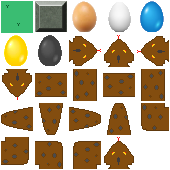
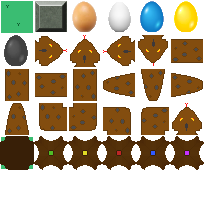
added holes, fixed layout of intro screen when returning from game.

diff --git a/src/scene_game.js b/src/scene_game.js
@@ -3,7 +3,7 @@ import Level from './level.js'
 import Snake from './snake.js'
 import { randomize, colorMix, switchToScene, isMobile } from './util.js'
 import { mkText, textWon, textGameOver } from './text.js'
-import { TILE_WIDTH, TILE_HEIGHT, HEADER_ROWS, EGG_BLACK_ID, LIFE_ID, EGG_BLUE_ID, EGG_BROWN_ID, EGG_WHITE_ID, EGG_GOLD_ID, EMPTY_ID } from './constants.js'
+import { TILE_WIDTH, TILE_HEIGHT, HEADER_ROWS, EGG_BLACK_ID, LIFE_ID, EGG_BLUE_ID, EGG_BROWN_ID, EGG_WHITE_ID, EGG_GOLD_ID, EMPTY_ID, HOLE_FOREGROUND_START, HOLE_BACKGROUND } from './constants.js'
 
 import Keypad from './keypad.js'
 
@@ -124,6 +124,7 @@ export default class Game extends Phaser.Scene {
     this.lv = Level.getLevel(this.level, this.lo)
     this.bgLayer.putTilesAt(this.lv.background, 0, 0, true)
     this.mazeLayer.putTilesAt(this.lv.tile_map, 0, 0, true)
+    this.fgLayer.fill(EMPTY_ID, 0, 0, this.lo.mazeCols, this.lo.mazeRows)
     this.levelTxt.setText('Level: ' + (this.level + 1))
     this.snake = new Snake(this)
     // update lives
@@ -137,6 +138,7 @@ export default class Game extends Phaser.Scene {
     this.music = this.sound.add('music')
     this.music.play({ loop: true })
     this.initEggs()
+    this.addHoles(this.lv.holes)
     this.energy = 1.0
     this.updateEnergyBar()
     const txt = []
@@ -163,8 +165,8 @@ export default class Game extends Phaser.Scene {
   }
 
   /**
-     * initializes eggs
-     */
+   * initializes eggs
+   */
   initEggs () {
     this.eggsToAdd = []
     if ('dyn_delay' in this.lv) {
@@ -238,7 +240,8 @@ export default class Game extends Phaser.Scene {
     })
     const tileset = this.map.addTilesetImage('tiles', null, TILE_WIDTH, TILE_HEIGHT, 1, 2)
     this.bgLayer = this.map.createBlankLayer('background', tileset, this.lo.mazeX, this.lo.mazeY)
-    this.mazeLayer = this.map.createBlankLayer('foreground', tileset, this.lo.mazeX, this.lo.mazeY)
+    this.mazeLayer = this.map.createBlankLayer('maze', tileset, this.lo.mazeX, this.lo.mazeY)
+    this.fgLayer = this.map.createBlankLayer('foreground', tileset, this.lo.mazeX, this.lo.mazeY)
     this._setupLevel()
     if (DEBUG_FPS) {
       this.fps = mkText(this, 0, this.lo.height, '0', { fontSize: 50 })
@@ -345,30 +348,46 @@ export default class Game extends Phaser.Scene {
   }
 
   /**
-     * @param { number } r
-     * @param { number } c
-     * @return { number }
-     */
+   * @param { number } type
+   * @param { number } r
+   * @param { number } c
+   */
+  putTileAt (type, x, y) {
+    return this.map.putTileAt(type, x, y, true, this.mazeLayer)
+  }
+
+  /**
+   * @param { number } type
+   * @param { number } r
+   * @param { number } c
+   */
+  putBackgroundTileAt (type, x, y) {
+    return this.map.putTileAt(type, x, y, true, this.bgLayer)
+  }
+
+  putForegroundTileAt (type, x, y) {
+    return this.map.putTileAt(type, x, y, true, this.fgLayer)
+  }
+
+  /**
+   * @param { number } r
+   * @param { number } c
+   * @return { number }
+   */
   getTileAt (x, y) {
-    return this.map.getTileAt(x, y).index
+    return this.map.getTileAt(x, y, true, this.mazeLayer).index
+  }
+
+  getBackgroundTileAt (x, y) {
+    return this.map.getTileAt(x, y, true, this.bgLayer).index
   }
 
   /**
-     *
-     * @param { number } idx
-     * @param { number } r
-     * @param { number } c
-     */
-  putTileAt (idx, x, y) {
-    this.map.putTileAt(idx, x, y)
-  }
-
-  /**
-     * Add a number of eggs of a given type to the screen,
-     * avoiding collision with walls, snake or other eggs.
-     * @param { number } number number of eggs to add
-     * @param { number } type the tile type of the eggs
-     */
+    * Add a number of eggs of a given type to the screen,
+    * avoiding collision with walls, snake or other eggs.
+    * @param { number } number number of eggs to add
+    * @param { number } type the tile type of the eggs
+    */
   addEggs (cnt, type) {
     for (let i = 0; i < cnt; i++) {
       let r
@@ -379,6 +398,42 @@ export default class Game extends Phaser.Scene {
       } while (this.getTileAt(c, r) !== EMPTY_ID)
       this.putTileAt(type, c, r)
     }
+  }
+
+  /**
+    * Add holes avoiding collision with other objects
+    * @param { number } number number of holes to add
+    */
+  addHoles (cnt) {
+    if (!cnt) {
+      return
+    }
+    this.holes = []
+    for (let i = 0; i < cnt; i += 2) {
+      let r0, c0, r1, c1
+      do {
+        r0 = 1 + Phaser.Math.Between(1, this.lo.hIsles - 2) * (this.lo.bushRows + 1)
+        c0 = 1 + Phaser.Math.Between(1, this.lo.vIsles - 2) * (this.lo.bushCols + 1)
+      } while (this.getTileAt(c0, r0) !== EMPTY_ID || this.getBackgroundTileAt(c0, r0) === HOLE_BACKGROUND)
+      const v0 = { r: r0, c: c0 }
+      this.holes.push(v0)
+      this.putBackgroundTileAt(HOLE_BACKGROUND, c0, r0)
+      this.putForegroundTileAt(HOLE_FOREGROUND_START + i, c0, r0)
+      do {
+        r1 = 1 + Phaser.Math.Between(1, this.lo.hIsles - 2) * (this.lo.bushRows + 1)
+        c1 = 1 + Phaser.Math.Between(1, this.lo.vIsles - 2) * (this.lo.bushCols + 1)
+      } while (this.getTileAt(c1, r1) !== EMPTY_ID || this.getBackgroundTileAt(c1, r1) === HOLE_BACKGROUND ||
+              (r0 === r1 && Math.abs(c1 - c0) === this.lo.bushCols + 1) || (c0 === c1 && Math.abs(r1 - r0) === this.lo.bushRows + 1))
+      const v1 = { r: r1, c: c1 }
+      this.holes.push(v1)
+      this.putBackgroundTileAt(HOLE_BACKGROUND, c1, r1)
+      this.putForegroundTileAt(HOLE_FOREGROUND_START + i, c1, r1)
+      v0.other = v1
+      v1.other = v0
+    }
+    const len = this.holes.length
+    this.holes[len - 2].other = this.holes[len - 1]
+    this.holes[len - 1].other = this.holes[len - 2]
   }
 
   resetEffect () {

diff --git a/src/snake.js b/src/snake.js
@@ -3,7 +3,7 @@ import {
   EMPTY_ID, WALL_ID, EGG_BROWN_ID, EGG_WHITE_ID, EGG_BLUE_ID, EGG_GOLD_ID, EGG_BLACK_ID,
   SNAKE_START_LEN,
   SNAKE_HEAD_R, SNAKE_HEAD_L, SNAKE_HEAD_U, SNAKE_HEAD_D, SNAKE_BODY_R, SNAKE_BODY_L, SNAKE_BODY_U, SNAKE_BODY_D, SNAKE_TAIL_R, SNAKE_TAIL_L, SNAKE_TAIL_U, SNAKE_TAIL_D, SNAKE_CORNER_UL, SNAKE_CORNER_UR, SNAKE_CORNER_BL, SNAKE_CORNER_BR,
-  EGG_BROWN_VALUE, EGG_WHITE_VALUE, EGG_BLUE_VALUE, EGG_GOLD_VALUE, EGG_BROWN_LEN_INC, EGG_WHITE_LEN_INC, EGG_BLUE_LEN_INC
+  EGG_BROWN_VALUE, EGG_WHITE_VALUE, EGG_BLUE_VALUE, EGG_GOLD_VALUE, EGG_BROWN_LEN_INC, EGG_WHITE_LEN_INC, EGG_BLUE_LEN_INC, HOLE_BACKGROUND
 } from './constants.js'
 
 const tailMap = new Map([
@@ -55,11 +55,11 @@ export default class Snake {
     this.game.putTileAt(SNAKE_TAIL_R, this.body[0][1], this.body[0][0])
     this.game.putTileAt(SNAKE_HEAD_R, this.body[this.body.length - 1][1], this.body[this.body.length - 1][0])
     this.nextDir = [0, 1]
+    this.lastHeadTile = SNAKE_HEAD_R
   }
 
   setDir (d) {
     if (d[0] === -this.dir[0] && d[1] === -this.dir[1]) {
-      console.log("can't go back")
       return
     }
     this.nextDir = d
@@ -83,7 +83,18 @@ export default class Snake {
     * @returns { Boolean } true unless the snake died.
     */
   update () {
-    const h = this.body[this.head]
+    let h = this.body[this.head]
+    if (this.game.getBackgroundTileAt(h[1], h[0]) === HOLE_BACKGROUND) {
+      const holes = this.game.holes
+      for (let i = 0; i < holes.length; i++) {
+        if (holes[i].r === h[0] && holes[i].c === h[1]) {
+          this.game.putTileAt(EMPTY_ID, h[1], h[0])
+          h = [holes[i].other.r, holes[i].other.c]
+          this.body[this.head] = h
+          break
+        }
+      }
+    }
     let tl = this.game.getTileAt(h[1] + this.nextDir[1], h[0] + this.nextDir[0])
     if (tl !== WALL_ID) {
       this.dir = this.nextDir
@@ -147,16 +158,15 @@ export default class Snake {
     }
 
     // replace head with body
-    const prevHead = this.body[this.head]
-    const prevHeadTl = this.game.getTileAt(prevHead[1], prevHead[0])
     this.head++
     if (this.head === this.body.length) {
       this.head = 0
     }
     this.body[this.head] = [h[0] + this.dir[0], h[1] + this.dir[1]]
-    const tls = headMap.get(this.dir[0] + '_' + this.dir[1] + '_' + prevHeadTl)
-    this.game.putTileAt(tls[1], prevHead[1], prevHead[0])
+    const tls = headMap.get(this.dir[0] + '_' + this.dir[1] + '_' + this.lastHeadTile)
+    this.game.putTileAt(tls[1], h[1], h[0])
     this.game.putTileAt(tls[0], this.body[this.head][1], this.body[this.head][0])
+    this.lastHeadTile = tls[0]
     return true
   }
 

diff --git a/src/level.js b/src/level.js
@@ -4,10 +4,10 @@ import { randomize } from './util.js'
 const DATA = [
   { eggs: { brown: 4, white: 2, blue: 1, gold: 1, black: 1 }, hwalls: 1, vwalls: 1 },
   { eggs: { brown: 6, white: 2, blue: 1, gold: 0, black: 1 }, hwalls: 2, vwalls: 2 },
-  { eggs: { brown: 8, white: 2, blue: 1, gold: 1, black: 2 }, hwalls: 3, vwalls: 3 },
-  { eggs: { brown: 10, white: 2, blue: 1, gold: 1, black: 2 }, hwalls: 4, vwalls: 4 },
-  { eggs: { brown: 6, white: 4, blue: 4, gold: 0, black: 3 }, hwalls: 5, vwalls: 5 },
-  { eggs: { brown: 6, white: 4, blue: 4, gold: 0, black: 3 }, hwalls: 5, vwalls: 5 },
+  { eggs: { brown: 8, white: 2, blue: 1, gold: 1, black: 2 }, hwalls: 3, vwalls: 3, holes: 2 },
+  { eggs: { brown: 10, white: 2, blue: 1, gold: 1, black: 2 }, hwalls: 4, vwalls: 4, holes: 2 },
+  { eggs: { brown: 6, white: 4, blue: 4, gold: 0, black: 3 }, hwalls: 5, vwalls: 5, holes: 4 },
+  { eggs: { brown: 6, white: 4, blue: 4, gold: 0, black: 3 }, hwalls: 5, vwalls: 5, holes: 4 },
   { eggs: { brown: 4, white: 2, blue: 1, gold: 1, black: 3 }, hwalls: 5, vwalls: 5, dyn_eggs: 2, dyn_delay: 2000 },
   { eggs: { brown: 6, white: 2, blue: 1, gold: 1, black: 3 }, hwalls: 5, vwalls: 5, dyn_eggs: 1, dyn_delay: 1000 },
   { eggs: { brown: 8, white: 2, blue: 1, gold: 1, black: 4 }, hwalls: 5, vwalls: 5, dyn_eggs: 1, dyn_delay: 1000 }

diff --git a/src/scene_intro.js b/src/scene_intro.js
@@ -1,4 +1,4 @@
-import { EGG_BROWN_ID, EGG_WHITE_ID, EGG_BLUE_ID, EGG_GOLD_ID, EGG_BLACK_ID, DEFAULT_WIDTH } from './constants.js'
+import { EGG_BROWN_ID, EGG_WHITE_ID, EGG_BLUE_ID, EGG_GOLD_ID, EGG_BLACK_ID, DEFAULT_WIDTH, DEFAULT_HEIGHT } from './constants.js'
 import Phaser from './lib/phaser.js'
 
 import { textSnacke, textDescription, textEgg, mkText } from './text.js'
@@ -16,6 +16,15 @@ export default class Intro extends Phaser.Scene {
   }
 
   create () {
+    /*
+    const game = this.game
+    this.events.once('once') {
+      game.origGameWidth = game.width
+      game.origGameHeight = game.height
+    }*/
+    this.scale.setGameSize(DEFAULT_WIDTH, DEFAULT_HEIGHT)
+
+    console.log("### crating intro scene")
     mkText(this, 0, 0, window.innerWidth + 'X' + window.innerHeight).setOrigin(0)
     const title = textSnacke(this)
     const desc = textDescription(this)

diff --git a/src/constants.js b/src/constants.js
@@ -36,7 +36,11 @@ export const SNAKE_CORNER_UL = SNAKE_FIRST + 15
 export const SNAKE_LAST = SNAKE_CORNER_UL
 
 export const LIFE_ID = SNAKE_LAST + 1
-export const EMPTY_ID = SNAKE_LAST + 2
+
+export const HOLE_BACKGROUND = LIFE_ID + 1
+export const HOLE_FOREGROUND_START = HOLE_BACKGROUND + 1
+
+export const EMPTY_ID = HOLE_FOREGROUND_START + 5
 
 export const EGG_BROWN_VALUE = 100
 export const EGG_WHITE_VALUE = 200
